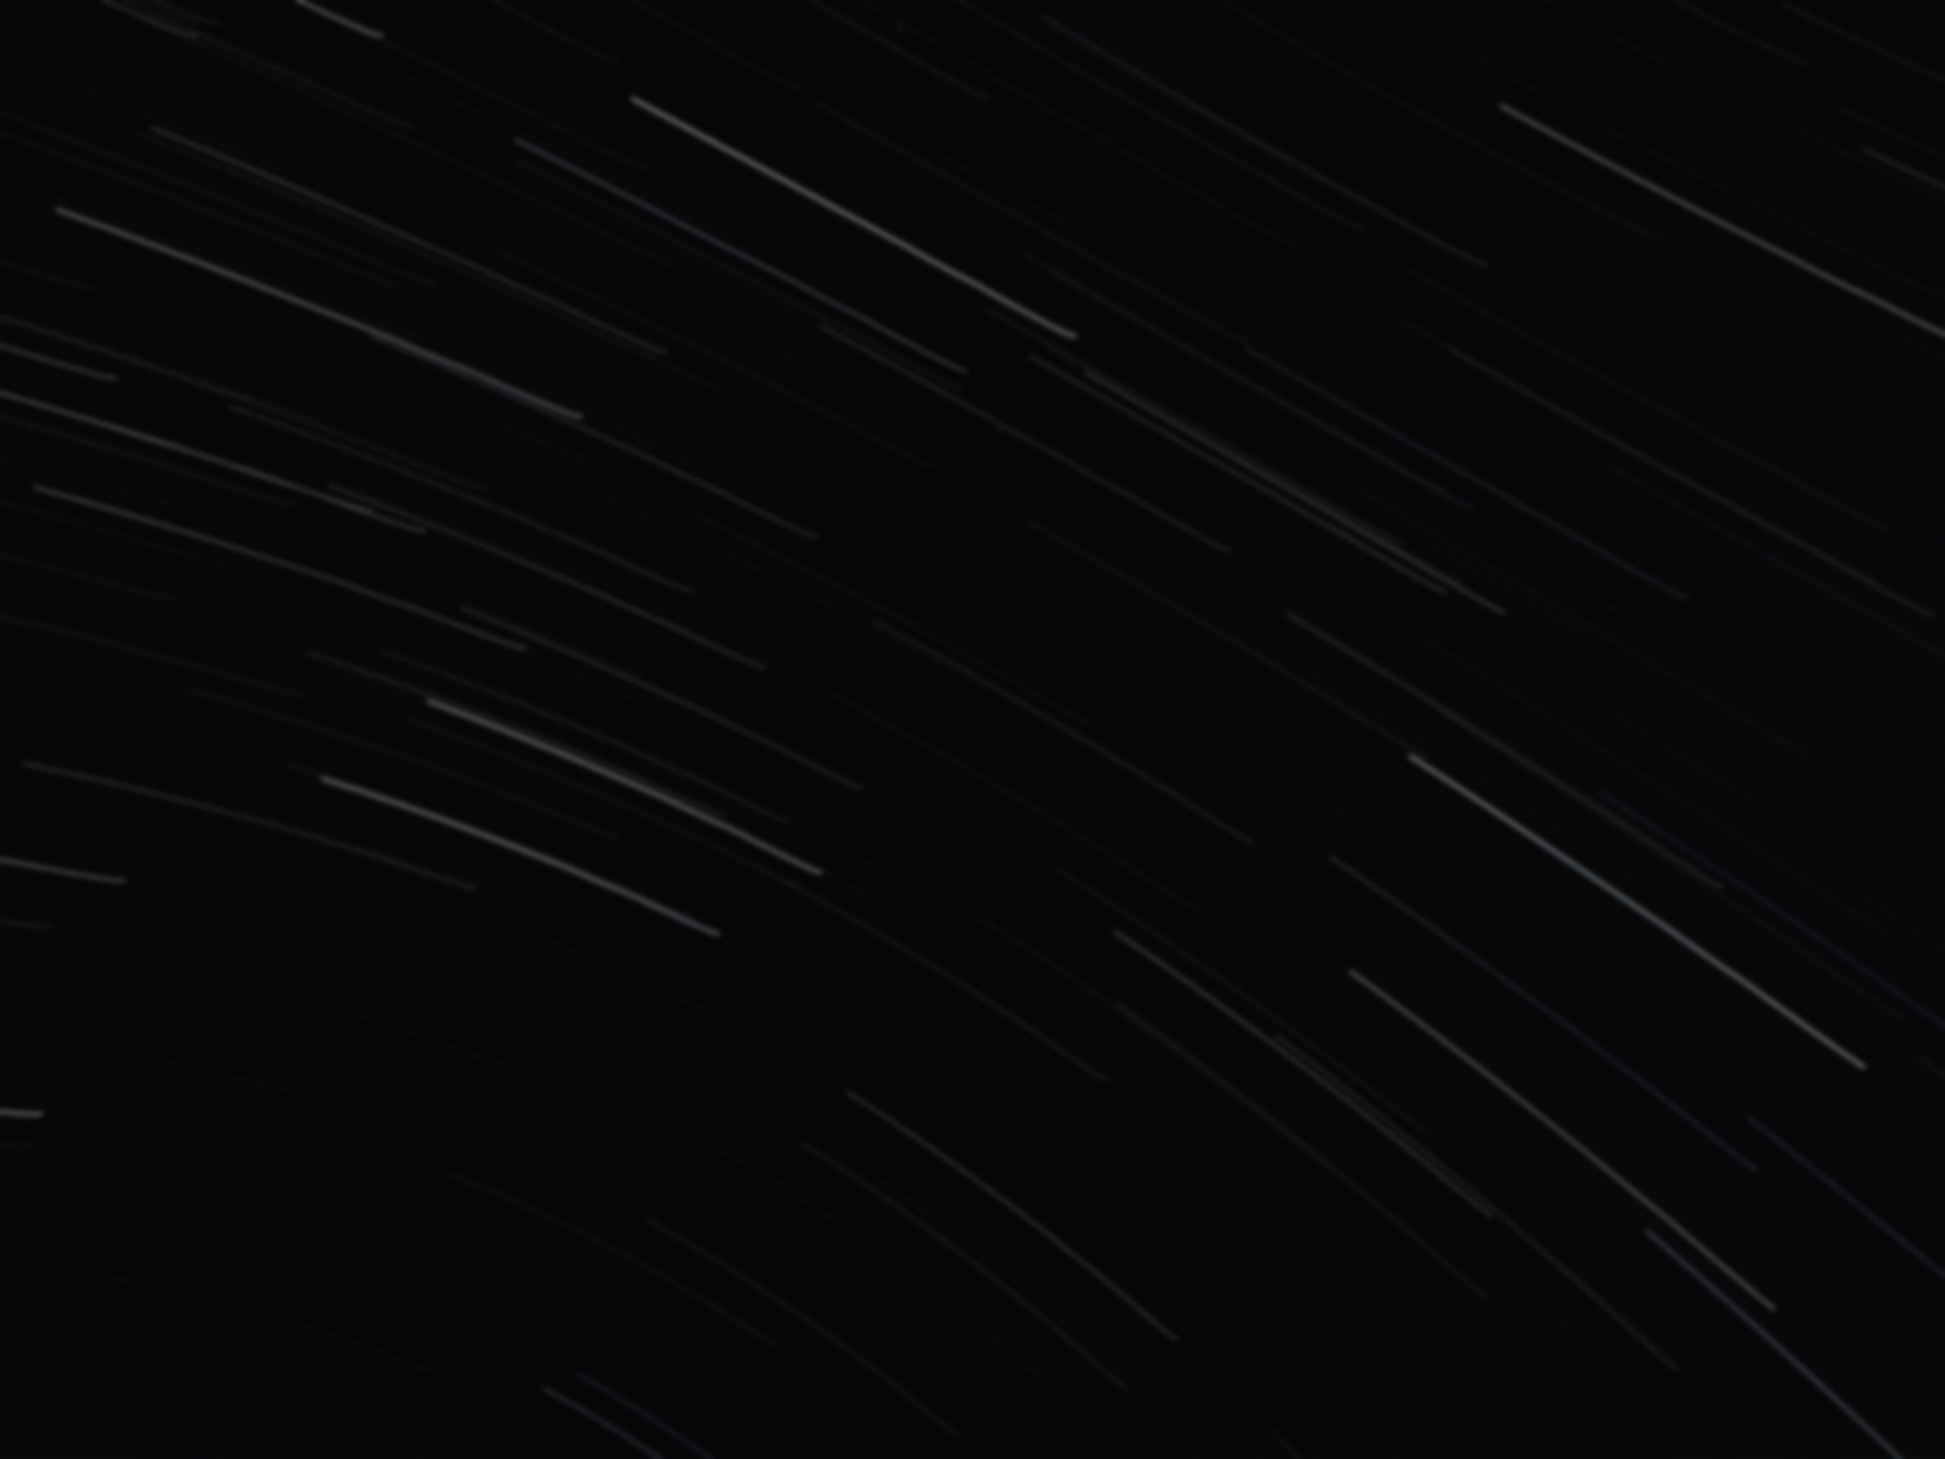
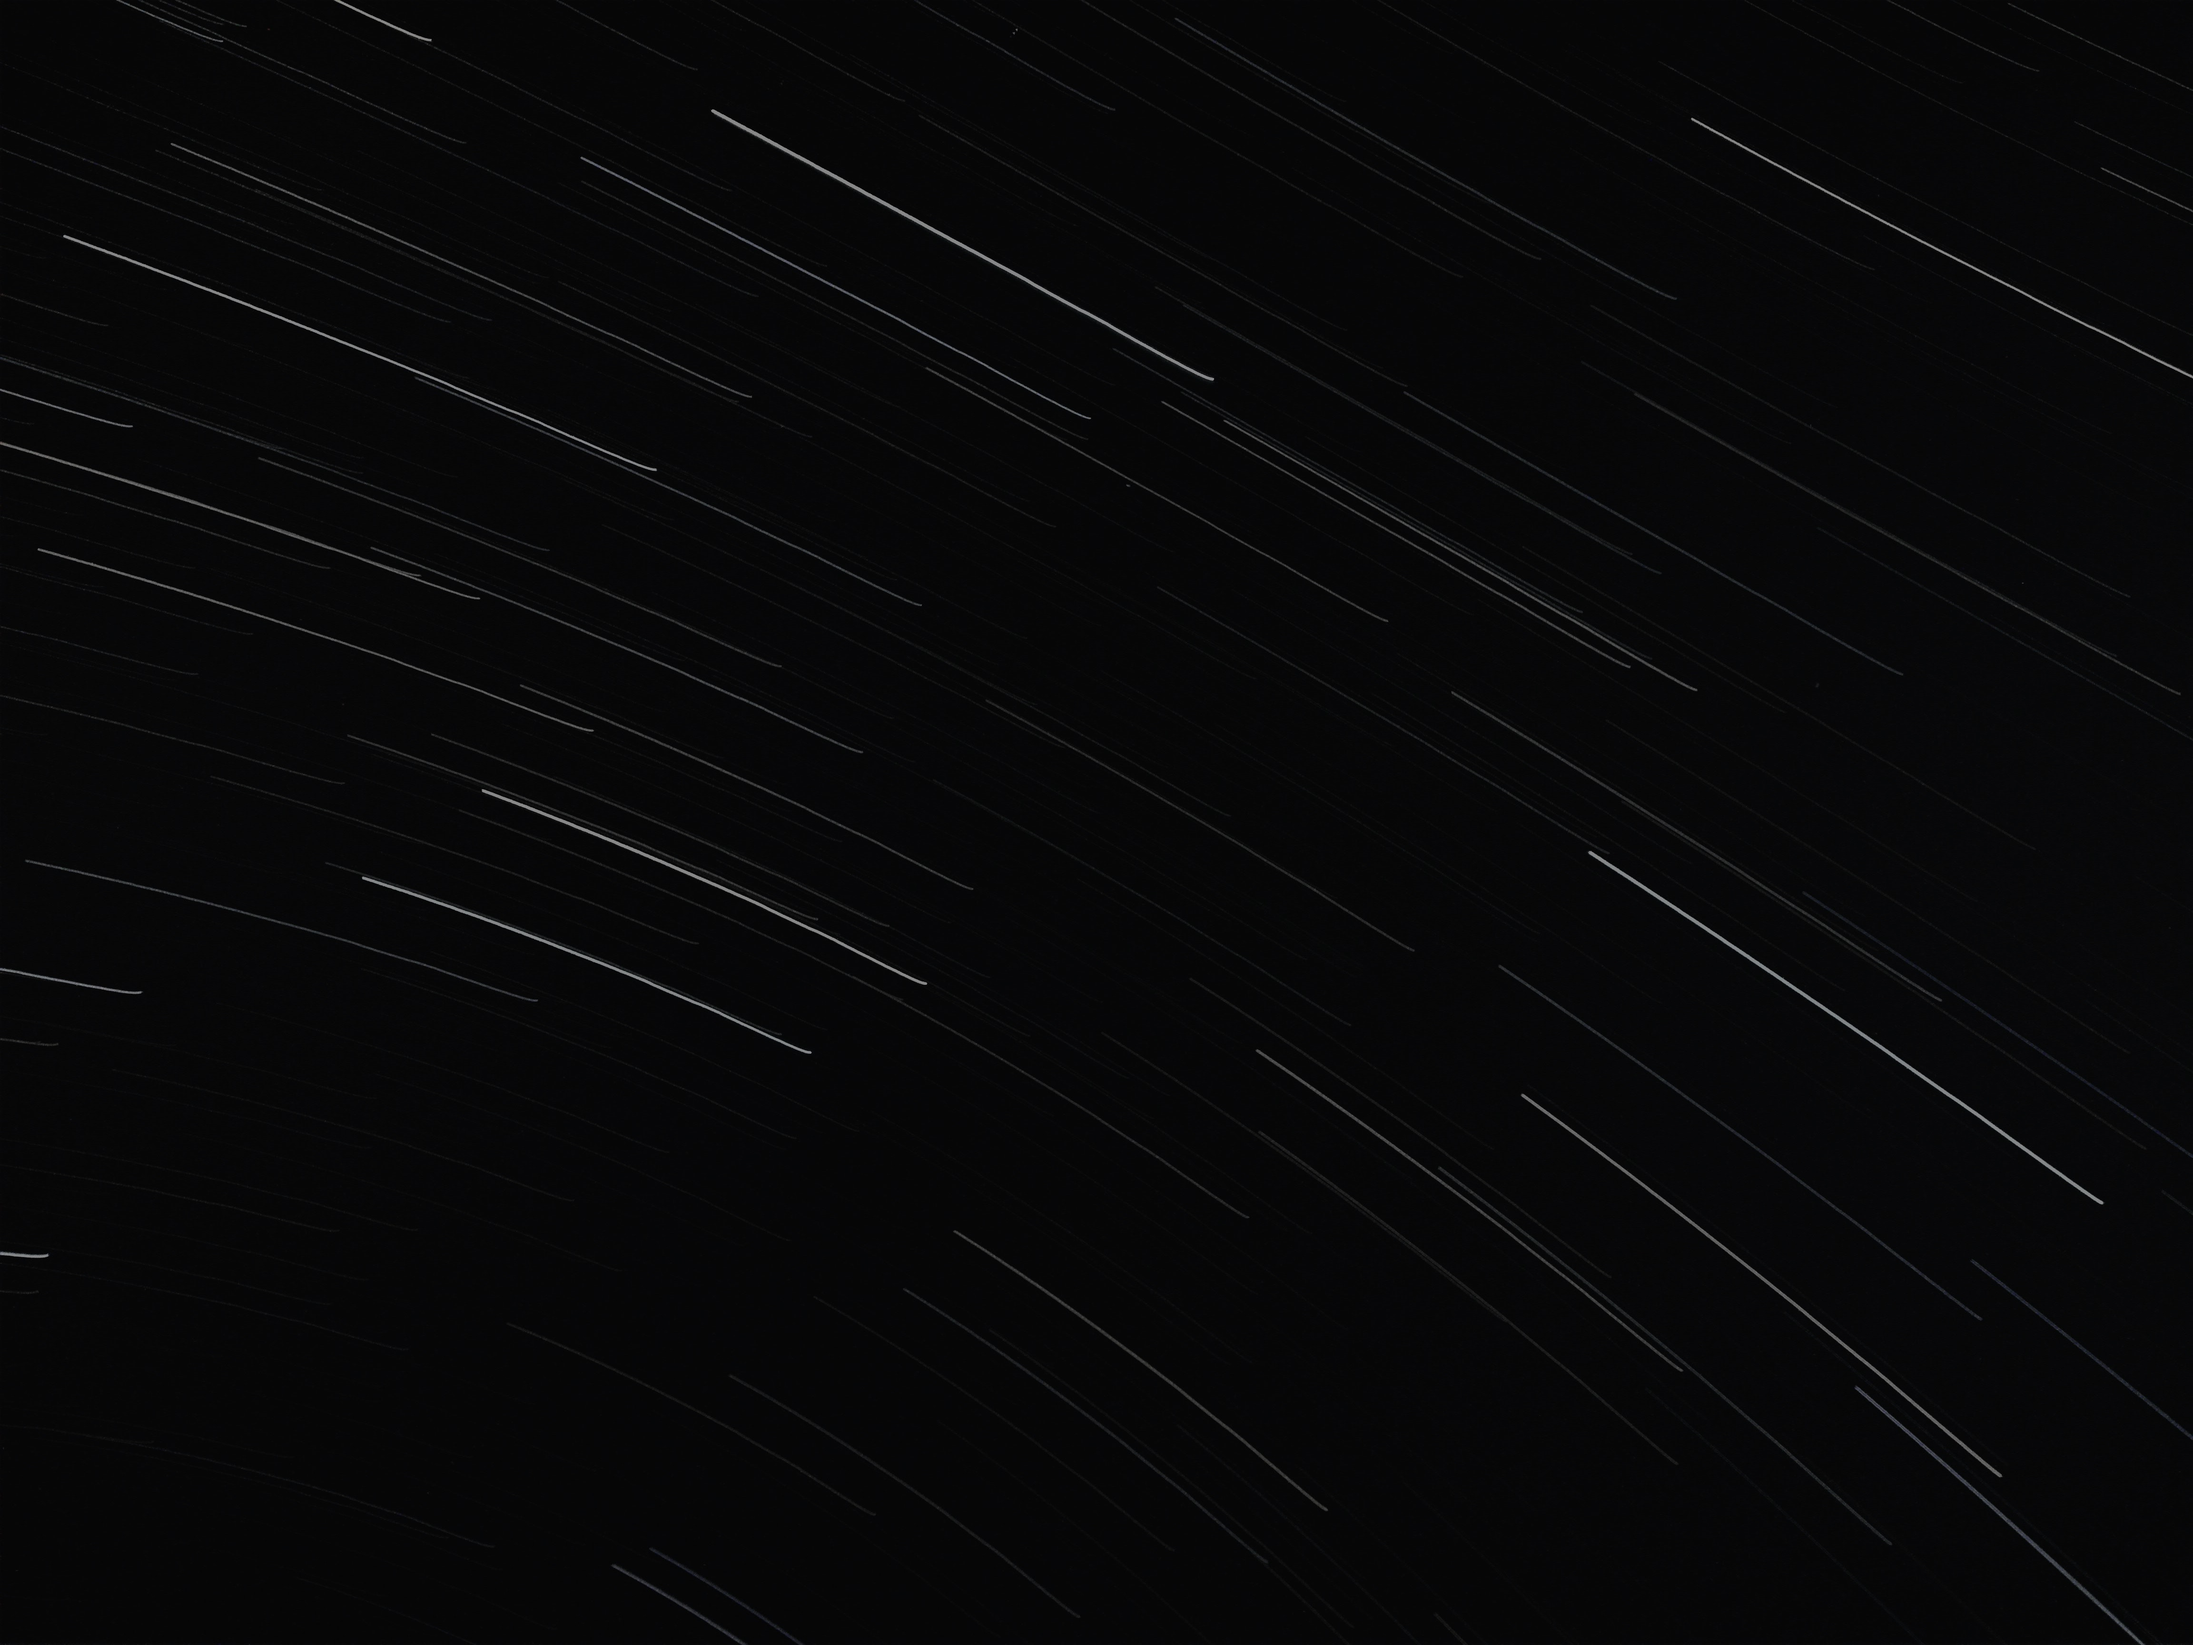
chore: change bg to remove blur

diff --git a/style.css b/style.css
@@ -4,13 +4,11 @@ body {
     font-family: monospace;
     background-color: black;
 }
-
 #output {
     width: 100vw;
     height: 100vh;
     display: block;
 }
-
 .background {
     background-image: url("object_files/bg.jpg");
     background-size: cover;
@@ -21,18 +19,15 @@ body {
     height: 100vh;
     animation: blink 10s infinite ease-in-out;
 }
-
 hr {
     width: 80%;
 }
-
 .main {
     width: 100vw;
     display: flex;
     justify-content: center;
     align-items: center;
 }
-
 .optionsContainer {
     display: block;
     z-index: 1;
@@ -50,7 +45,6 @@ hr {
     left: 3%;
     animation: slideInLeft 1s;
 }
-
 .creditsContainer {
     display: block;
     z-index: 1;
@@ -68,19 +62,14 @@ hr {
     right: 3%;
     animation: slideInRight 1s;
 }
-
 .invisible {
     display: none !important;
 }
-
 .break {
     flex-basis: 100%;
     height: 0;
 }
-
-.lightdirslider,
-.scaleslider,
-.speedslider {
+.lightdirslider, .scaleslider, .speedslider {
     display: flex;
     align-items: center;
     flex-wrap: wrap;
@@ -88,12 +77,10 @@ hr {
     margin-top: 5%;
     margin-bottom: 5%;
 }
-
 .welcome {
     margin-bottom: 2%;
     margin-top: 5%;
 }
-
 .credits {
     display: flex;
     flex-wrap: wrap;
@@ -104,53 +91,43 @@ hr {
     padding-left: 3%;
     padding-right: 3%;
 }
-
 .instructions {
     text-align: left;
     margin-top: 5%;
     margin-bottom: 8%;
 }
-
 ul {
     text-align: center;
     list-style-type: none;
     padding: 0;
 }
-
 @keyframes blink {
     0% {
         opacity: 1;
-    }
-
+   }
     50% {
         opacity: 0.2;
-    }
-    
+   }
     100% {
         opacity: 1;
-    }
+   }
 }
-
 @keyframes slideInLeft {
     0% {
         transform: translateX(-200px);
-    }
-
+   }
     100% {
         transform: translateX(0);
-    }
+   }
 }
-
 @keyframes slideInRight {
     0% {
         transform: translateY(-200px);
-    }
-
+   }
     100% {
         transform: translateX(0);
-    }
+   }
 }
-
 kbd {
     background-color: #eee;
     border-radius: 3px;
